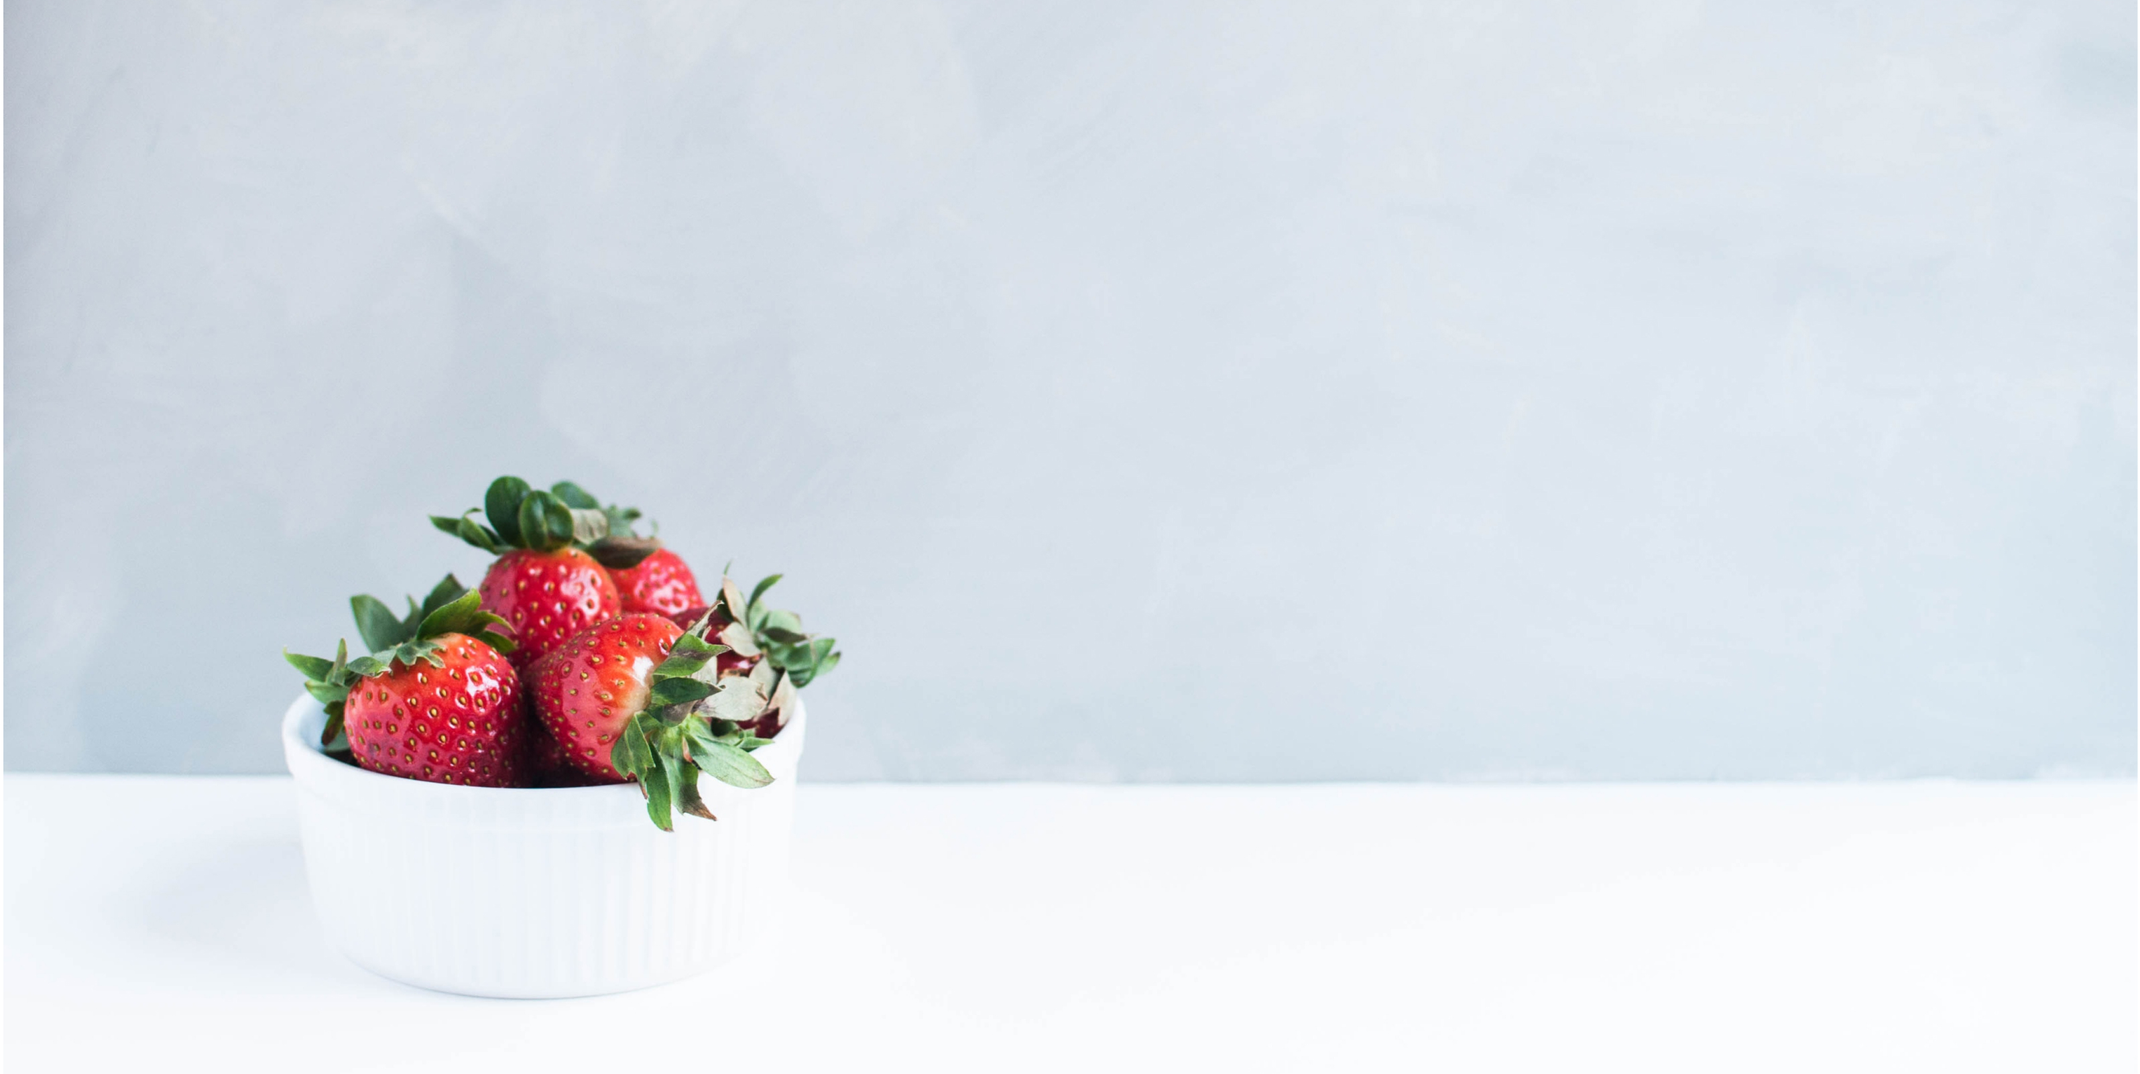
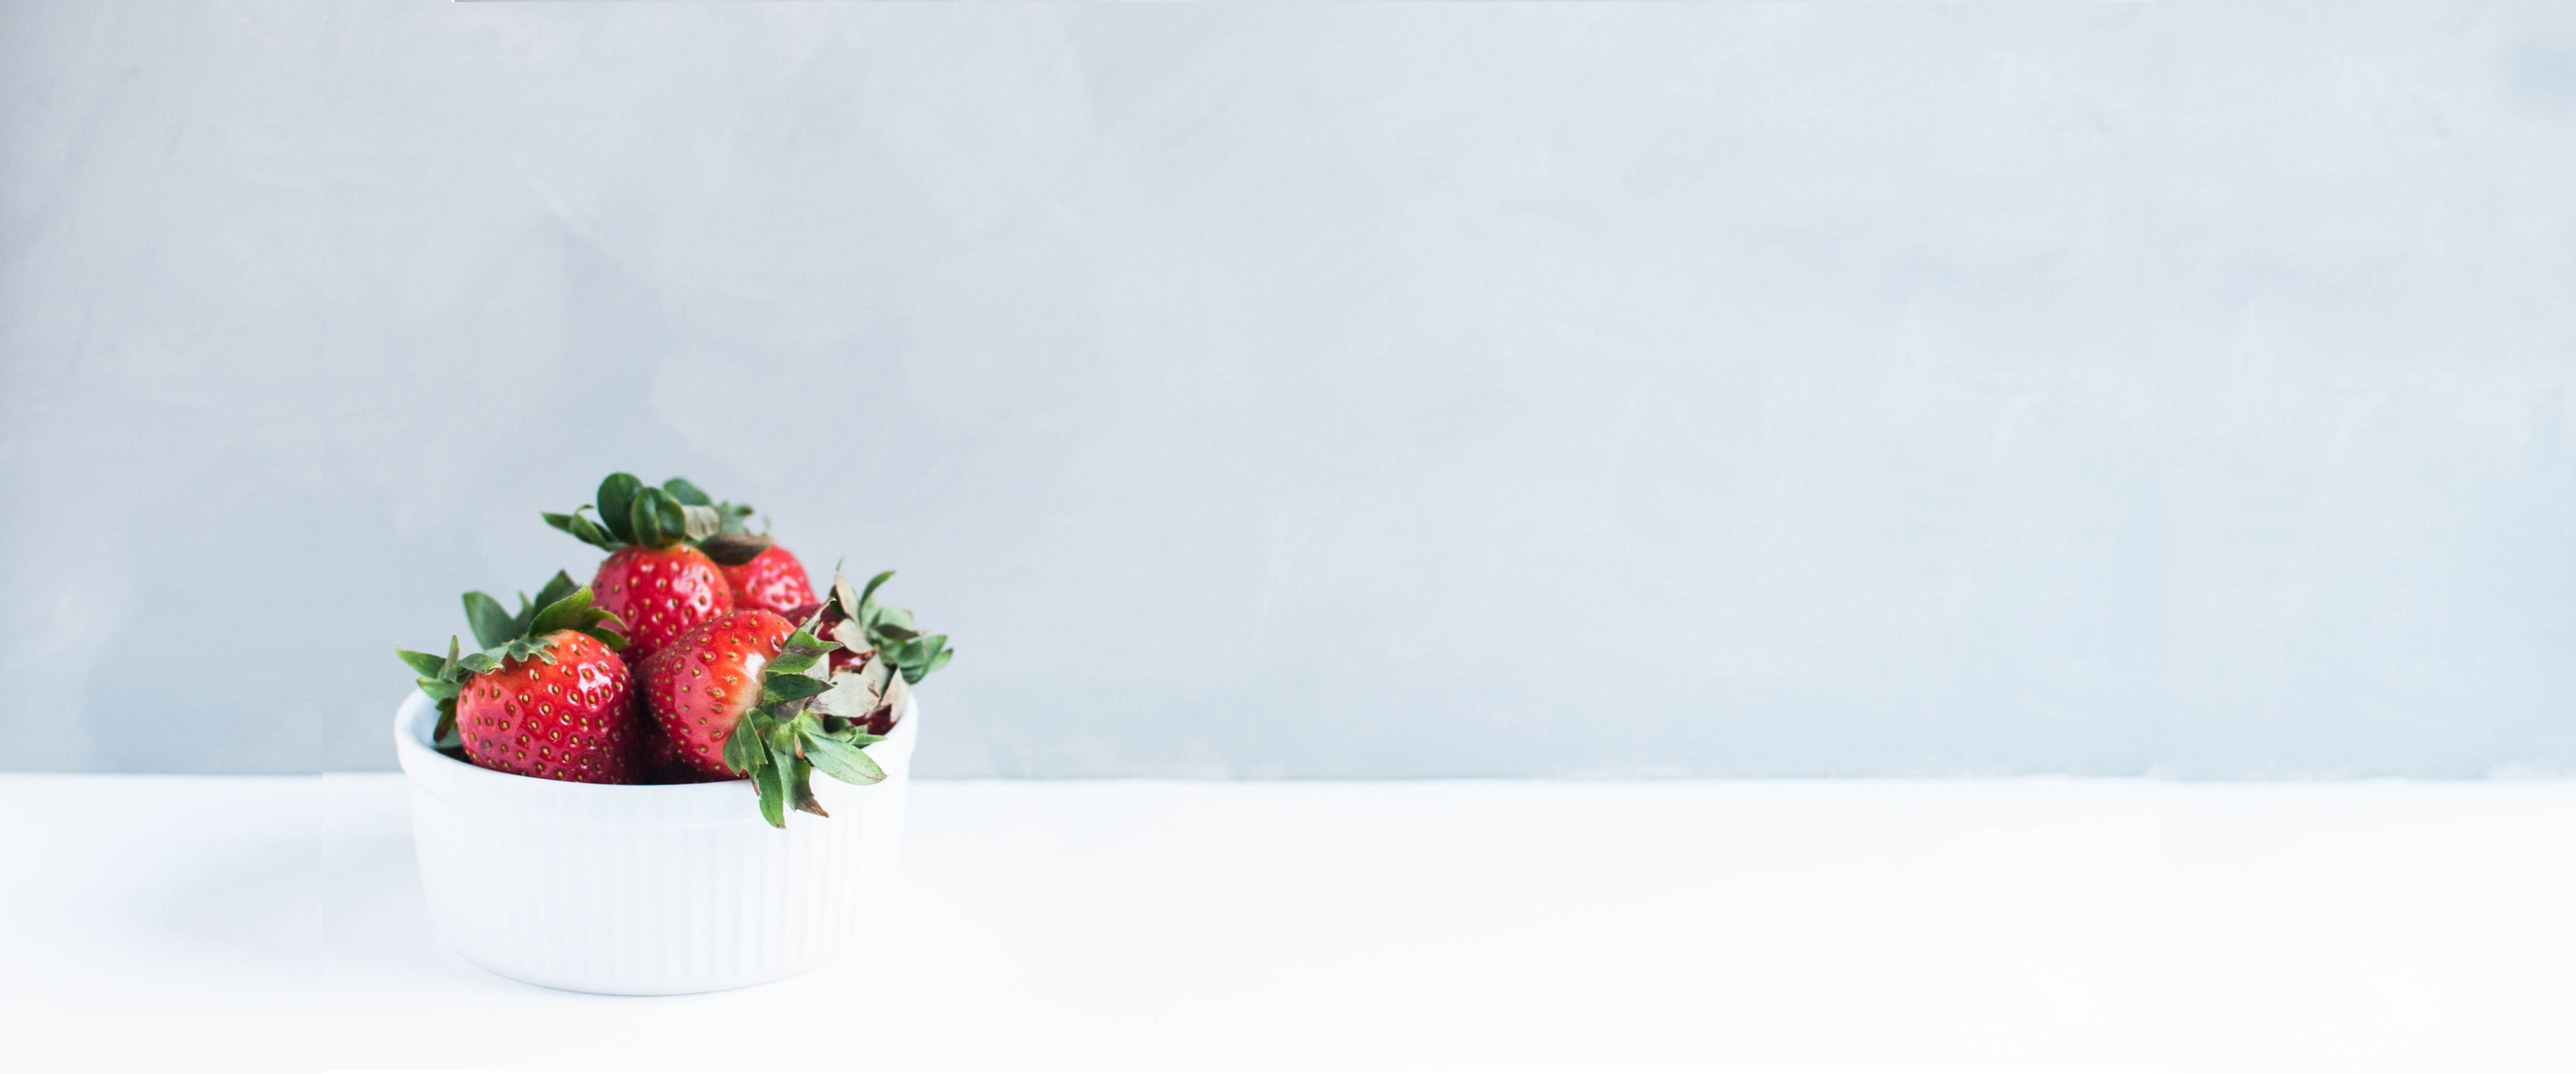
Сверстала промо (3 экрана)

Changed region(s): [[0.1241, 0.437, 0.4032, 0.7803], [0.9925, 0.0, 1.0, 0.7179], [0.2171, 0.9051, 0.2481, 0.9363]]

diff --git a/source/sass/blocks/promo.scss b/source/sass/blocks/promo.scss
@@ -1,0 +1,145 @@
+.promo {
+  box-sizing: border-box;
+  min-height: 640px;
+  padding-top: 68px;
+  padding-bottom: 20px;
+  background-color: #ced7e0;
+  background-image: url("../img/promo-background-mobile.jpg");
+  background-repeat: no-repeat;
+  background-position: left 0 bottom 0;
+  background-size: auto;
+
+  @media (min-resolution: 2dppx) {
+    background-image: url("../img/promo-background-mobile@2x.jpg");
+    background-size: 768px auto;
+  }
+
+  @media (min-width: $tablet-width) {
+    min-height: 924px;
+    padding-top: 142px;
+    padding-bottom: 50px;
+    background-image: url("../img/promo-background-tablet.jpg");
+    background-size: auto;
+
+    @media (min-resolution: 2dppx) {
+      background-image: url("../img/promo-background-tablet@2x.jpg");
+      background-size: 1440px auto;
+    }
+  }
+
+  @media (min-width: $desktop-width) {
+    min-height: 800px;
+    padding-top: 172px;
+    background-image: url("../img/promo-background-desktop.jpg");
+    background-size: auto;
+    background-position: center;
+
+    @media (min-resolution: 2dppx) {
+      background-image: url("../img/promo-background-desktop@2x.jpg");
+      background-size: 1920px auto;
+    }
+  }
+}
+
+.promo__wrapper {
+  width: 280px;
+  margin: 0 auto;
+
+  @media (min-width: $tablet-width) {
+    width: 728px - 193px;
+    padding-left: 193px;
+  }
+
+  @media (min-width: $desktop-width) {
+    width: 1128px - 383px;
+    padding-left: 383px;
+  }
+}
+
+.promo__title {
+  text-align: center;
+  padding-bottom: 38px;
+
+  @media (min-width: $tablet-width) {
+    text-align: left;
+    padding-bottom: 52px;
+  }
+
+  @media (min-width: $desktop-width) {
+    padding-bottom: 56px;
+  }
+}
+
+.promo__list {
+  margin: 0;
+  padding: 0;
+  padding-left: 37px;
+
+  @media (min-width: $tablet-width) {
+    width: 502px;
+    padding-left: 0;
+  }
+
+  @media (min-width: $desktop-width) {
+    padding-left: 24px;
+  }
+}
+
+.promo__item {
+  padding-bottom: 19px;
+  padding-left: 44px;
+  font-size: 16px;
+  line-height: 19px;
+  position: relative;
+
+  &::before {
+    content: "";
+    width: 32px;
+    height: 32px;
+    background-position: center;
+    background-repeat: no-repeat;
+    position: absolute;
+    left: 0;
+  }
+
+  &--selective::before {
+    background-image: url("../img/icons/icon-features-leaf.svg");
+    top: -7px;
+  }
+
+  &--frozen::before {
+    background-image: url("../img/icons/icon-features-ice.svg");
+    top: 15px;
+  }
+
+  &--delivery::before {
+    background-image: url("../img/icons/icon-features-auto.svg");
+    top: 7px;
+  }
+
+  @media (min-width: $tablet-width) {
+    font-size: 18px;
+    line-height: 22px;
+    padding-bottom: 23px;
+
+    &--frozen::before {
+      top: 5px;
+    }
+
+    &--delivery::before {
+      top: -4px;
+    }
+  }
+}
+
+.promo__button-wrapper {
+  padding: 35px 8px;
+
+  @media (min-width: $tablet-width) {
+    padding: 31px 0;
+  }
+
+  @media (min-width: $desktop-width) {
+    padding: 37px 37px;
+  }
+}

diff --git a/source/index.html b/source/index.html
@@ -63,14 +63,16 @@
   <main class="main-container">
     <h1 class="visually-hidden">Интернет-магазин "Ягода"</h1>
     <section class="promo">
-      <h2 class="promo__title section-title">Ягоды с доставкой</h2>
-      <ul class="promo__list">
-        <li class="promo__item">Отборные ягоды</li>
-        <li class="promo__item">Натуральный вкус сохранён методом шоковой заморозки</li>
-        <li class="promo__item">Доставка по Санкт-Петербургу</li>
-      </ul>
-      <div class="promo__button-wrapper">
-        <a class="promo__button button" href="form.html">Заказать</a>
+      <div class="promo__wrapper">
+        <h2 class="promo__title section-title">Ягоды с&nbsp;доставкой</h2>
+        <ul class="promo__list">
+          <li class="promo__item promo__item--selective">Отборные ягоды</li>
+          <li class="promo__item promo__item--frozen">Натуральный вкус сохранён методом шоковой заморозки</li>
+          <li class="promo__item promo__item--delivery">Доставка по Санкт-Петербургу</li>
+        </ul>
+        <div class="promo__button-wrapper">
+          <a class="promo__button button" href="form.html">Заказать</a>
+        </div>
       </div>
     </section>
     <section class="catalog" id="catalog">

diff --git a/source/sass/blocks/button.scss b/source/sass/blocks/button.scss
@@ -12,6 +12,7 @@
   font-weight: 400;
   font-size: 20px;
   line-height: 23px;
+  letter-spacing: 0.08rem;
   color: $text-white;
   background-color: $accent-violet;
   border: none;
@@ -34,6 +35,7 @@
     padding-bottom: 18px;
     font-size: 28px;
     line-height: 33px;
+    letter-spacing: 0.1rem;
   }
 
   &--product {

diff --git a/source/sass/style.scss b/source/sass/style.scss
@@ -8,6 +8,7 @@
 @import "blocks/logo.scss";
 @import "blocks/page-header.scss";
 @import "blocks/main-nav.scss";
+@import "blocks/promo.scss";
 @import "blocks/page-footer.scss";
 @import "blocks/social.scss";
 @import "blocks/copyright.scss";
